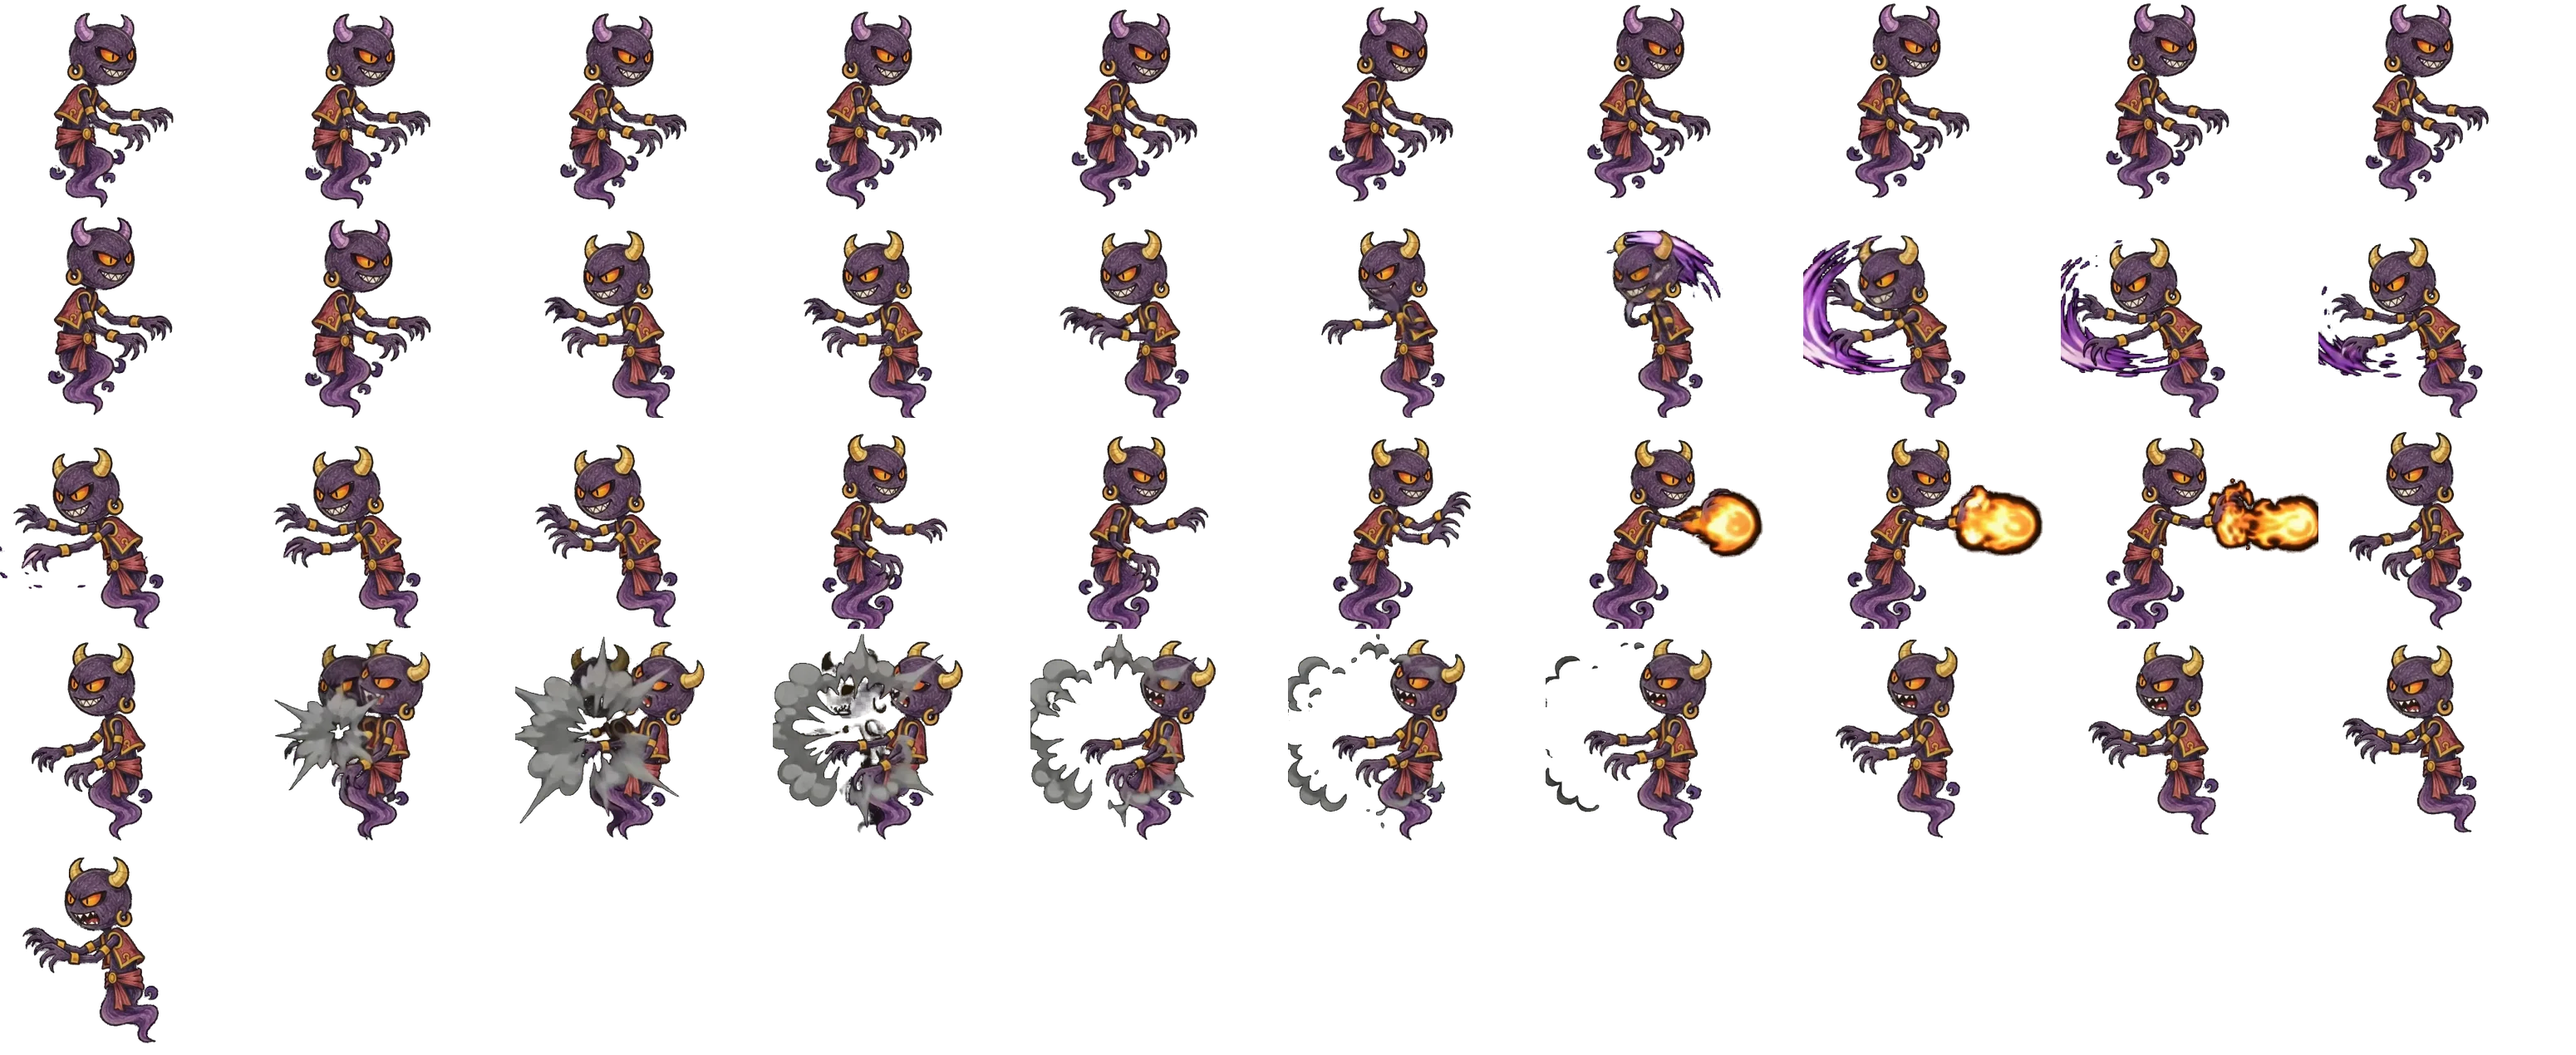
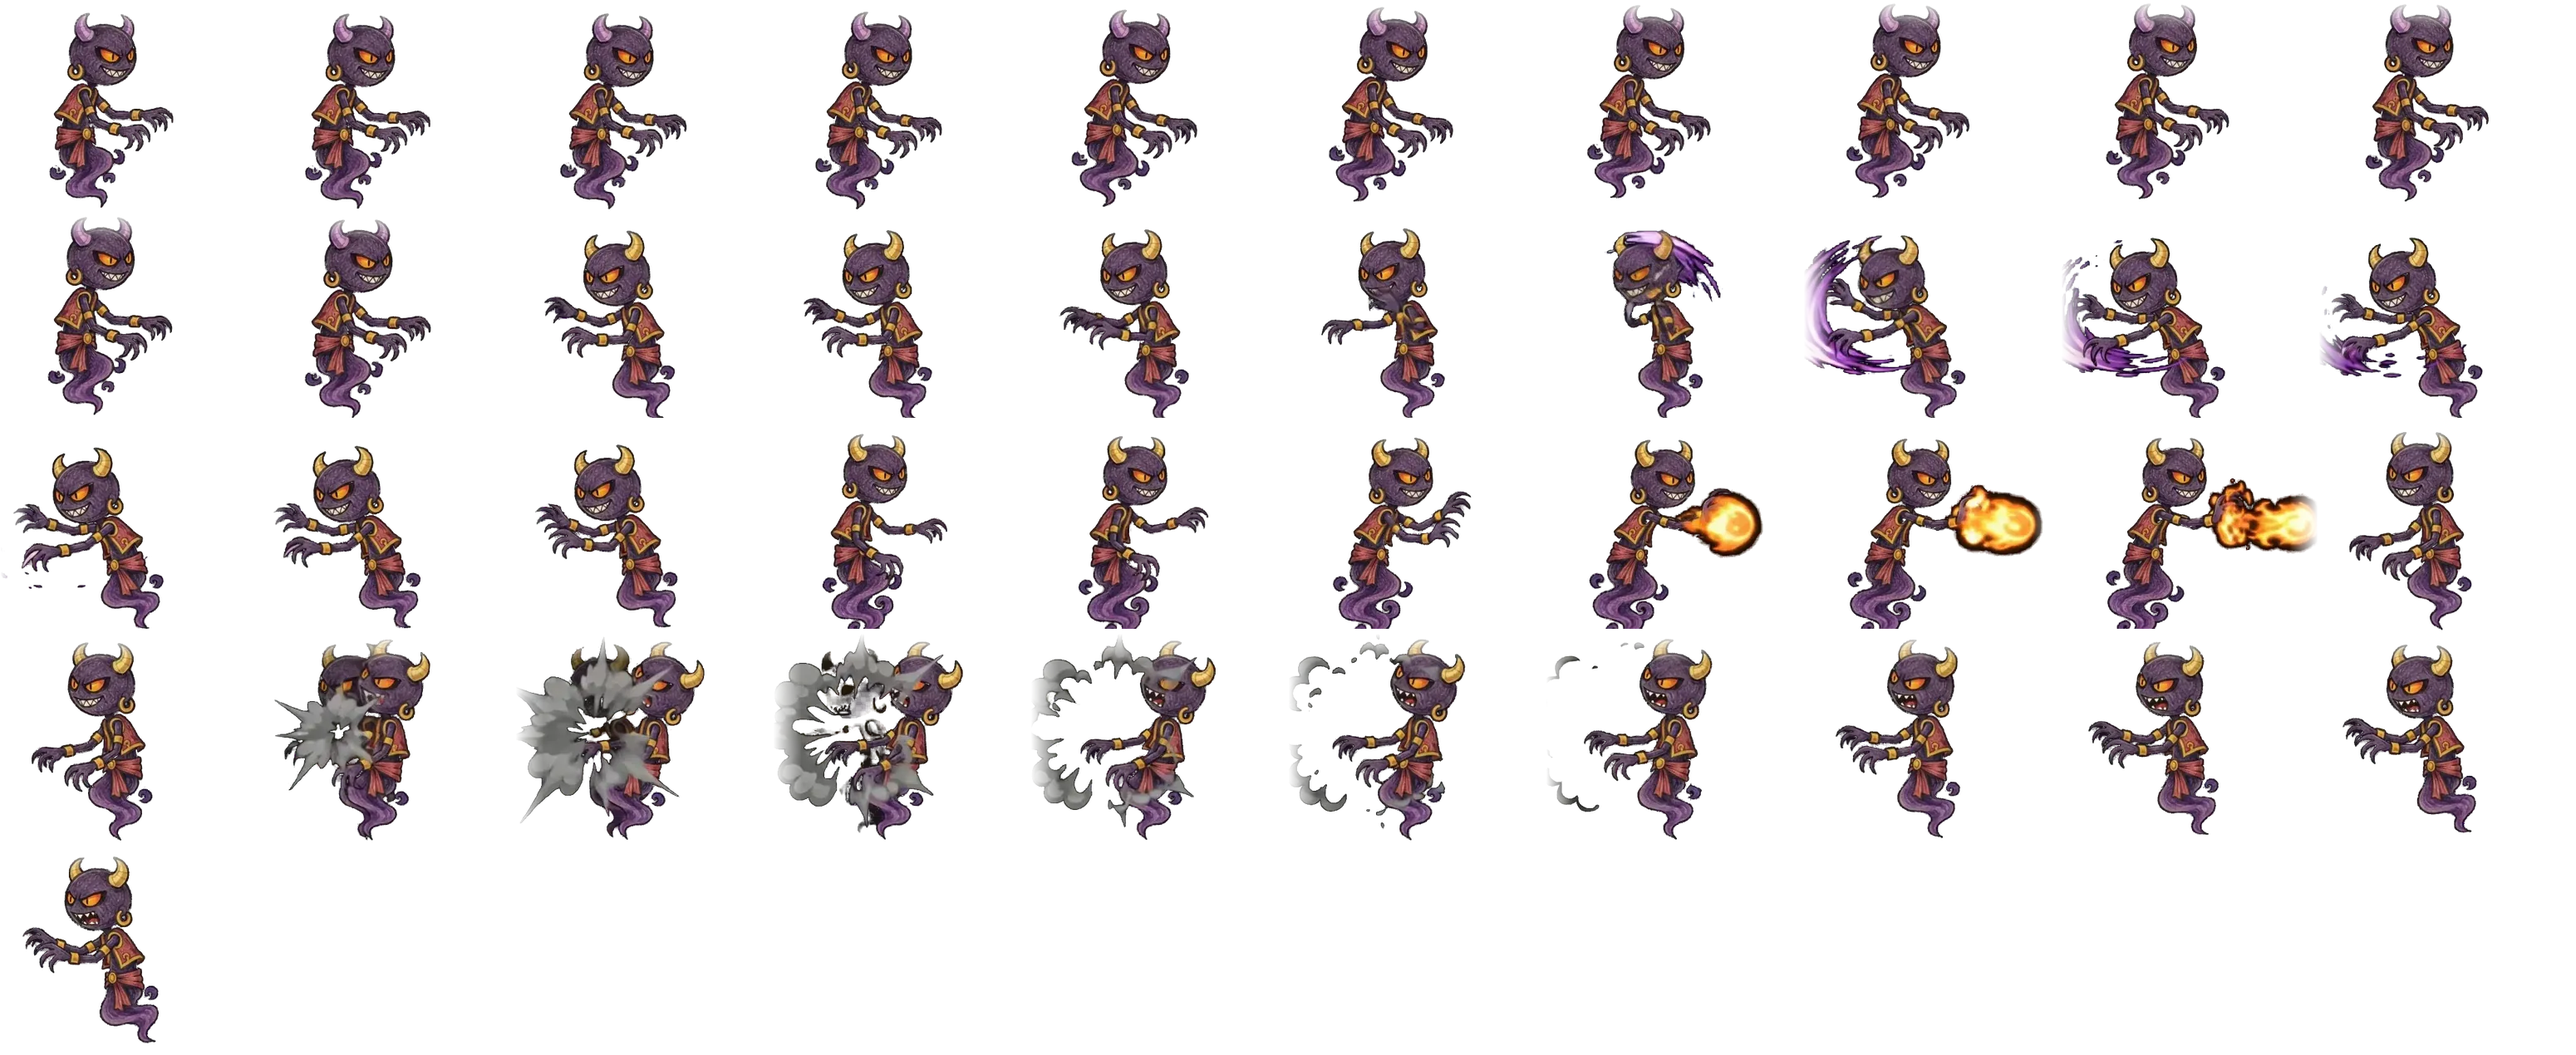
Paper Fighters: Jinn King animated from the user's 2x2 video
Idle float, big fiery claw slash, fire growing in the hand (panel mirrored
so it faces the same way), and a smoke-burst hit where the crown flies off,
also used for his defeat before he fades. Jinn and king frames fade out at
the cell edges so long slashes don't end in a hard line.

Claude-Session: https://claude.ai/code/session_018GkYzaQzPA7Fx3gLGY7Wwf

diff --git a/pencil-battle/game.html b/pencil-battle/game.html
@@ -2443,7 +2443,7 @@ function drawProjs(){for(const p of projs){ctx.save();ctx.translate(p.x,p.y);ctx
 function drawFighter(f){
   const s=f.sk,c=f.c,sc=f.sc,fl=f.flash>0,fc=fl?c.flash:c.front,rc=fl?c.flash:c.rear,bs=f.boss&&!(f.ch&&f.ch.bossOf!=null),Wd=9.5*sc*(bs&&!(f.ch&&f.ch.look&&f.ch.look.thin)?1.3:1),two=f.weapon==='staff',dff=f.dff;
   ctx.save();ctx.globalAlpha=f.alpha;ctx.lineCap='round';ctx.lineJoin='round';if(f.ch&&f.ch.look&&f.ch.look.jinn)ctx.translate(0,8+Math.sin(game.rt*3+f.uid)*5);
-  const shd=Math.max(.25,1-f.y/260);ctx.fillStyle='rgba(30,25,20,.16)';ctx.beginPath();ctx.ellipse(s.hip[0],0,38*shd*sc,5*shd*sc,0,0,TAU);ctx.fill();if(f.ch&&f.ch.look&&f.ch.look.jinn&&f.ch.id!=='jinn')drawJinnSmoke(f);if(f.state==='move'&&f.move&&f.move.name==='zrise'&&!(f.ch.id==='zombie'&&ZIMG.naturalWidth)){const k=1-clamp(f.move.t/650,0,1);ctx.beginPath();ctx.rect(-1e5,0,2e5,1e5);ctx.clip();ctx.translate(0,-k*150*sc)}
+  const shd=Math.max(.25,1-f.y/260);ctx.fillStyle='rgba(30,25,20,.16)';ctx.beginPath();ctx.ellipse(s.hip[0],0,38*shd*sc,5*shd*sc,0,0,TAU);ctx.fill();if(f.ch&&f.ch.look&&f.ch.look.jinn&&!JSH[f.ch.id])drawJinnSmoke(f);if(f.state==='move'&&f.move&&f.move.name==='zrise'&&!(f.ch.id==='zombie'&&ZIMG.naturalWidth)){const k=1-clamp(f.move.t/650,0,1);ctx.beginPath();ctx.rect(-1e5,0,2e5,1e5);ctx.clip();ctx.translate(0,-k*150*sc)}
   const hl=(pts,w)=>{ctx.save();ctx.translate(-1.3,1.3);strokePoly(pts,w*.28,'rgba(255,255,255,.16)');ctx.restore()};
   const gl=f.ch&&f.ch.look&&f.ch.look.gloves,fist=(p,col)=>{if(gl){drawGlove(f,p,col===rc);return}ctx.fillStyle=col;ctx.beginPath();ctx.arc(p[0],p[1],5.6*sc*(bs?1.5:1),0,TAU);ctx.fill()};
   const limb=(pts,w,col)=>{if(!bs){strokePoly(pts,w,col);return}strokePoly(pts.slice(0,2),w*1.55,col);strokePoly(pts.slice(1),w*1.2,col)};
@@ -2458,7 +2458,7 @@ function drawFighter(f){
     ctx.strokeStyle=ac;ctx.lineWidth=1.5;ctx.globalAlpha=.85*f.alpha;const js=[s.head,s.chest,s.hip,s.k1,s.k2,s.f1,s.f2,s.h1,s.h2,s.e1];
     for(let i=0;i<7;i++){const q=js[Math.random()*js.length|0],a=Math.random()*TAU,l=(10+Math.random()*16)*sc,r0=12*sc;ctx.beginPath();ctx.moveTo(q[0]+Math.cos(a)*r0,q[1]+Math.sin(a)*r0);ctx.lineTo(q[0]+Math.cos(a+.3)*(r0+l*.5),q[1]+Math.sin(a+.3)*(r0+l*.5));ctx.lineTo(q[0]+Math.cos(a)*(r0+l),q[1]+Math.sin(a)*(r0+l));ctx.stroke()}ctx.globalAlpha=f.alpha}
   if(f.ch&&f.ch.id==='zombie'&&drawZombieSprite(f)){ctx.restore();return}
-  if(f.ch&&f.ch.id==='jinn'&&drawJinnSprite(f)){ctx.restore();return}
+  if(f.ch&&JSH[f.ch.id]&&drawJinnSprite(f)){ctx.restore();return}
   if(f.ch&&PARTS[f.ch.id]&&drawCutout(f)){drawIce(f);if(f.state==='move'&&f.move&&f.move.d.bag)drawBag(f);if(f.ch.id==='mozhgan'&&((f.state==='win'&&!f.dance)||(f.state==='move'&&f.move&&f.move.name==='mzintro')))drawPhone(f);ctx.restore();return}
   if(f.weapon==='sword'&&!f.wskin)drawScabbard(f);
   const sw=f.disp.sw;leg(sw?L1:L2,rc);if(!two){arm(A2,rc);fist(s.h2,rc);if(f.weapon==='dagger')drawKnife(f,1)}
@@ -2517,15 +2517,18 @@ function drawZombieSprite(f){if(!ZIMG.complete||!ZIMG.naturalWidth)return true;c
   const k=.52*f.sc,sx=(i%10)*245,sy=Math.floor(i/10)*330;ctx.save();ctx.translate(f.x,f.y);ctx.scale((f.face||1)*k,-k);ctx.drawImage(ZIMG,sx,sy,245,330,-86,-303,245,330);
   if(f.flash>0){ctx.globalCompositeOperation='lighter';ctx.globalAlpha=.4*f.alpha;ctx.drawImage(ZIMG,sx,sy,245,330,-86,-303,245,330)}ctx.restore();drawIce(f);return true}
 // jinn drawn from the user's 2x2 jinn video (fx/jinn.webp: 10 columns of 310x254 cells, facing right, body at x=122, bottom of the smoke at y=248)
-const JIMG=Object.assign(new Image(),{src:'fx/jinn.webp'}),JA={idle:[0,12],claw:[12,11],fire:[23,6],hit:[29,12]};
-function drawJinnSprite(f){if(!JIMG.complete||!JIMG.naturalWidth)return true;const S=f.state,m=f.move,at=(a,u)=>JA[a][0]+Math.min(JA[a][1]-1,Math.max(0,Math.floor(u*JA[a][1])));let i,al=1;
+const JIMG=Object.assign(new Image(),{src:'fx/jinn.webp'}),KIMG=Object.assign(new Image(),{src:'fx/jinnking.webp'}),
+  JSH={jinn:{im:JIMG,cw:310,ch:254,ax:122,gy:248,k:.64,A:{idle:[0,12],claw:[12,11],fire:[23,6],hit:[29,12]}},
+    jinnking:{im:KIMG,cw:324,ch:248,ax:144,gy:241,k:.66,A:{idle:[0,12],claw:[12,13],fire:[25,11],hit:[36,13]}}};  // the king's sheet is from his own 2x2 video
+
+function drawJinnSprite(f){const Z=JSH[f.ch.id],IM=Z.im,JA=Z.A;if(!IM.complete||!IM.naturalWidth)return true;const S=f.state,m=f.move,at=(a,u)=>JA[a][0]+Math.min(JA[a][1]-1,Math.max(0,Math.floor(u*JA[a][1])));let i,al=1;
   if(S!=='ko'&&!f.ko)f.zdT=null;if(!/^(hit|air|juggle|stun|down|getup)$/.test(S))f.zhT=null;
   if(S==='move'&&m){const tot=m.d._tot||(m.d._tot=m.d.seq.reduce((a,q)=>a+q[1],0));i=at(m.name==='throwP'?'fire':'claw',m.t/tot)}
   else if(S==='ko'||f.ko){if(f.zdT==null)f.zdT=game.rt;const t=game.rt-f.zdT;i=at('hit',t/.7);al=clamp(1-(t-.6)/.6,0,1)}
   else if(/^(hit|air|juggle|stun|down|getup)$/.test(S)||f.frozen>0){if(f.zhT==null)f.zhT=game.rt;i=at('hit',(game.rt-f.zhT)/.6)}
   else i=JA.idle[0]+(Math.floor(game.rt*9+f.uid)%JA.idle[1]);
-  if(al<=0)return true;const k=.64*f.sc,sx=(i%10)*310,sy=Math.floor(i/10)*254;ctx.save();ctx.globalAlpha*=al;ctx.translate(f.x,f.y);ctx.scale((f.face||1)*k,-k);ctx.drawImage(JIMG,sx,sy,310,254,-122,-248,310,254);
-  if(f.flash>0){ctx.globalCompositeOperation='lighter';ctx.globalAlpha=.4*f.alpha*al;ctx.drawImage(JIMG,sx,sy,310,254,-122,-248,310,254)}ctx.restore();drawIce(f);return true}
+  if(al<=0)return true;const k=Z.k*f.sc,sx=(i%10)*Z.cw,sy=Math.floor(i/10)*Z.ch;ctx.save();ctx.globalAlpha*=al;ctx.translate(f.x,f.y);ctx.scale((f.face||1)*k,-k);ctx.drawImage(IM,sx,sy,Z.cw,Z.ch,-Z.ax,-Z.gy,Z.cw,Z.ch);
+  if(f.flash>0){ctx.globalCompositeOperation='lighter';ctx.globalAlpha=.4*f.alpha*al;ctx.drawImage(IM,sx,sy,Z.cw,Z.ch,-Z.ax,-Z.gy,Z.cw,Z.ch)}ctx.restore();drawIce(f);return true}
 // cutout characters: drawn body-part pictures pinned on the skeleton. Each part = [file, ax, ay, bx, by]:
 // the two image points (px) that sit on the bone's two joints; the picture is scaled/rotated to fit them
 const PARTS={mozhgan:{head:['parts/mz-head.png',322,100,322,198],torso:['parts/mz-torso.png',132,10,160,215,.64],uarm:['parts/mz-uarm.png',37,37,37,237,1.2],
@@ -3020,7 +3023,7 @@ resize();makeGrain();startDemo();
 (function bootLoad(){const box=$('loader');if(!box)return;const ims=[];
   for(const t in WALLBG)ims.push(wallImg(WALLBG[t][0]));for(const t in WALLIMG)for(const[src]of WALLIMG[t])ims.push(wallImg(src));
   for(const t in PROPIMG)for(const n of new Set(Object.values(PROPIMG[t]))){const src='props/'+t+'-'+n+'.webp';if(!PIMG[src]){PIMG[src]=new Image();PIMG[src].src=src}ims.push(PIMG[src])}
-  for(const c of CHARS)if(c.faceImg)ims.push(c.faceImg);ims.push(...SMOKE,...Object.values(FXI),ZIMG,JIMG,...GHI);
+  for(const c of CHARS)if(c.faceImg)ims.push(c.faceImg);ims.push(...SMOKE,...Object.values(FXI),ZIMG,JIMG,KIMG,...GHI);
   for(const id in PARTS)for(const k in PARTS[id]){partImg(PARTS[id][k][0]);ims.push(PIMGS[PARTS[id][k][0]])}
   let font=0;(document.fonts?document.fonts.ready:Promise.resolve()).then(()=>font=1,()=>font=1);
   const t0=performance.now();let shown=0;
